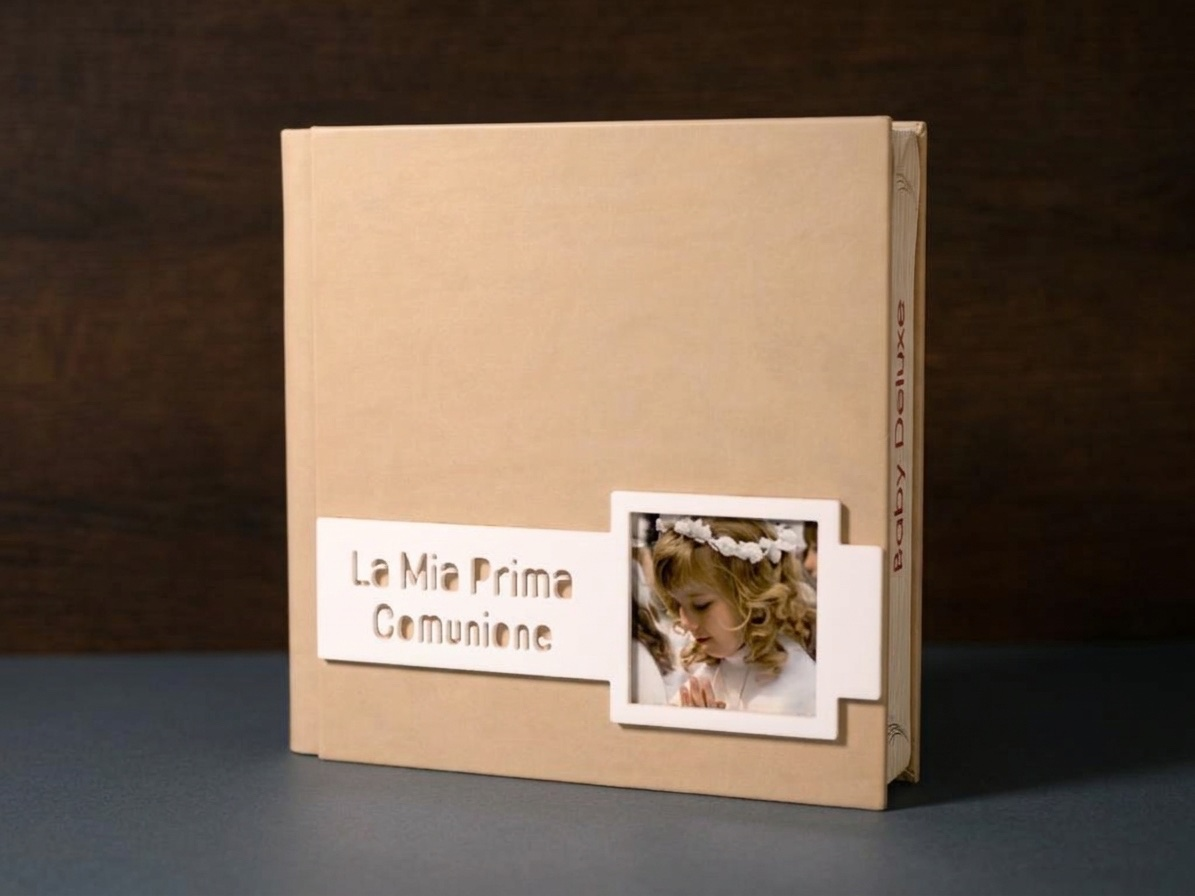
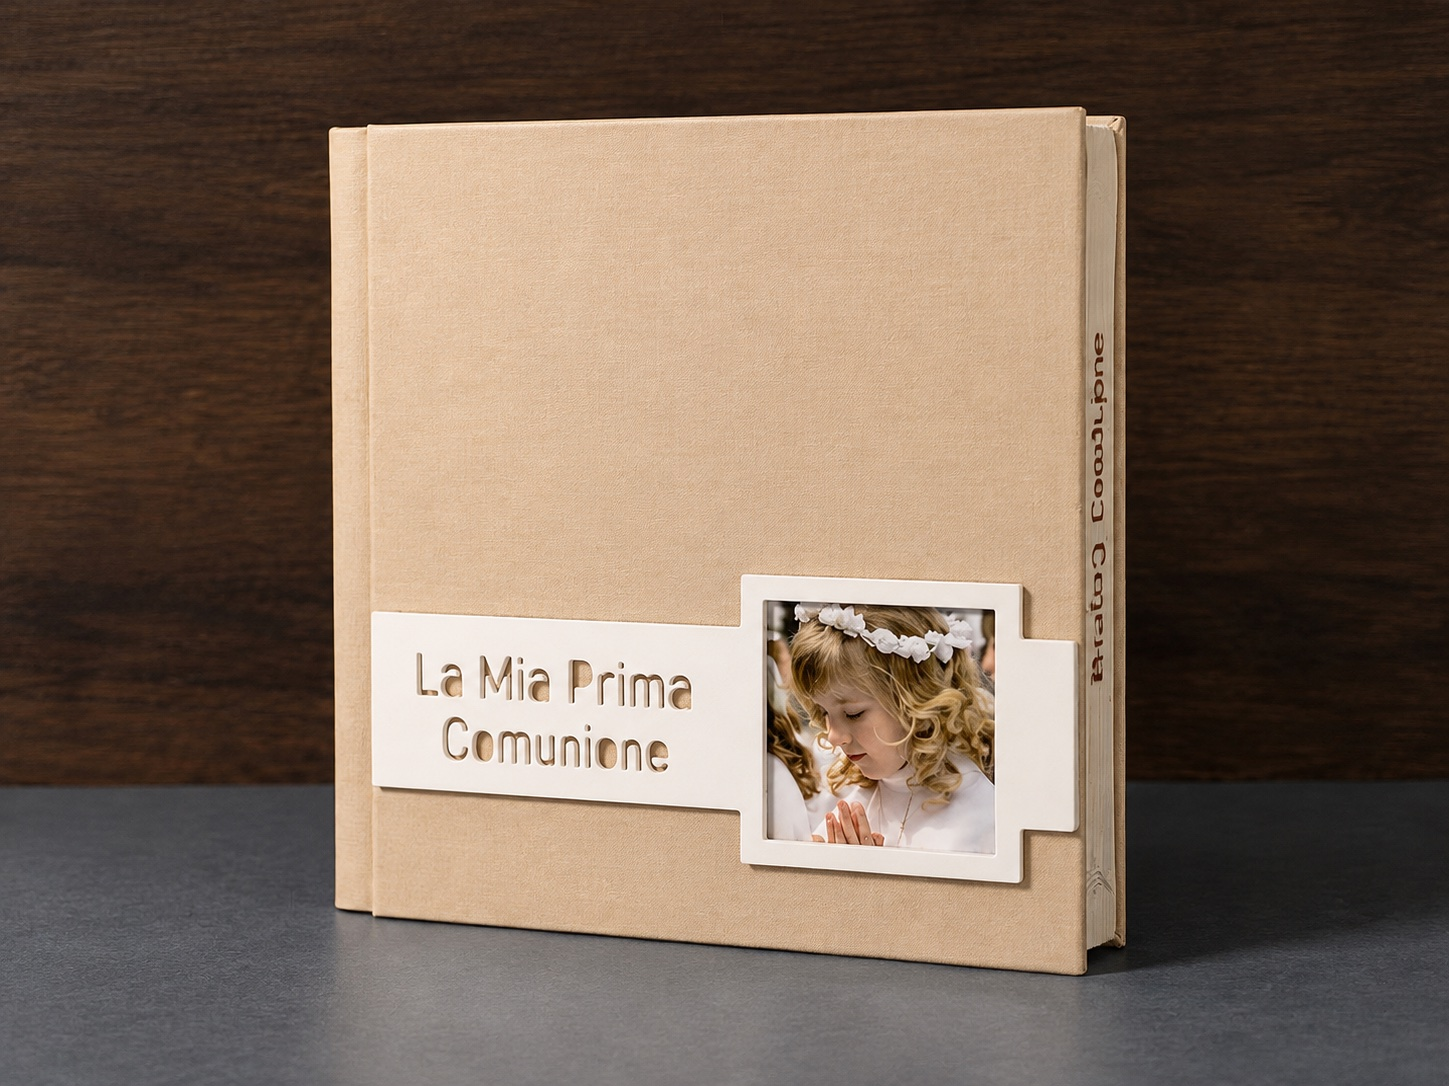
Home: nuove foto di apertura (album di nozze Elisa & Andrea, album sul leggio, album Orione sul tavolo) a tutto schermo, inquadrate e ferme al passaggio del mouse; nuova foto del modello Emma in Album comunione, menu e strisce delle collezioni; versioni 2.71-2.73 nel LEGGIMI

diff --git a/css/style.css b/css/style.css
@@ -472,26 +472,74 @@ nav a.on,
   filter: grayscale(1);
 }
 
-/* Modello Orione nello slideshow della home: la foto (4:3) sta a destra a tutta altezza,
-   con l'album intero; il bordo sinistro sfuma nei colori del muro e del ripiano. */
-.hero .hs-orione {
-  background: linear-gradient(180deg, #c4c0bd 0%, #bcb5b1 68%, #ab9d8f 72%, #b9a897 100%);
+/* Modello Orione sul tavolo nello slideshow della home: foto larga a tutto schermo,
+   inquadrata sull'album che sta a destra. */
+.hero .hero-slide.hs-orione img {
+  object-position: 70% 0%;
+  /* Album spostato un po' a destra e un po' in basso senza ingrandire la foto. */
+  transform: translate(5%, 4%);
+  transition: none;
 }
 
-.hero .hero-slide.hs-orione img {
-  top: auto;
-  bottom: 0;
-  left: auto;
-  right: 0;
-  width: auto;
-  max-width: none;
-  height: 86%;
-  aspect-ratio: 4 / 3;
-  object-fit: cover;
-  -webkit-mask-image: linear-gradient(90deg, transparent 0, #000 22%), linear-gradient(180deg, transparent 0, #000 14%);
-  -webkit-mask-composite: source-in;
-  mask-image: linear-gradient(90deg, transparent 0, #000 22%), linear-gradient(180deg, transparent 0, #000 14%);
-  mask-composite: intersect;
+/* Al passaggio del mouse la foto resta ferma (nessun effetto). */
+.hero .ph.no-zoom:hover .hero-slide.hs-orione img {
+  transform: translate(5%, 4%);
+}
+
+.hero .hs-orione {
+  overflow: hidden;
+  /* colore del muro nell'angolo in alto a sinistra della foto */
+  background: #b3aa9c;
+}
+
+/* I vuoti che restano a sinistra e in alto sono riempiti dalla stessa foto specchiata:
+   i bordi combaciano. */
+.hero .hs-orione::before,
+.hero .hs-orione::after {
+  content: '';
+  position: absolute;
+  inset: 0;
+  background: url(../images/index/album-orione-tavolo.jpg) 70% 0% / cover no-repeat;
+}
+
+.hero .hs-orione::before {
+  transform: translate(-94.9%, 4%) scaleX(-1);
+}
+
+.hero .hs-orione::after {
+  transform: translate(5%, -95.8%) scaleY(-1);
+}
+
+/* Album sul leggio nello slideshow della home: foto orizzontale a tutto schermo,
+   inquadrata sull'album che sta a destra. */
+.hero .hero-slide.hs-leggio img {
+  /* Inquadratura un po' più in alto nella foto: l'album appare leggermente più in basso. */
+  object-position: 75% 25%;
+}
+
+/* Album di nozze Elisa & Andrea nello slideshow della home: foto larga a tutto schermo,
+   inquadrata sull'album che sta a destra. */
+.hero .hero-slide.hs-nozze img {
+  object-position: 75% 50%;
+  /* Album spostato un po' a destra senza ingrandire la foto, come per Orione. */
+  transform: translateX(5%);
+  transition: none;
+}
+
+.hero .ph.no-zoom:hover .hero-slide.hs-nozze img {
+  transform: translateX(5%);
+}
+
+.hero .hs-nozze {
+  overflow: hidden;
+}
+
+.hero .hs-nozze::before {
+  content: '';
+  position: absolute;
+  inset: 0;
+  background: url(../images/index/album-nozze-elisa-andrea.jpg) 75% 50% / cover no-repeat;
+  transform: translateX(-95%) scaleX(-1);
 }
 
 .hero-controls {
@@ -3556,27 +3604,35 @@ img[src*="fotografo-videocamera"] {
     transform: none;
   }
 
-  /* Su telefono la foto Orione sta in alto, con l'album quasi intero e la coppia
-     sotto il pontile ben visibile; in basso sfuma nel colore del ripiano. */
+  /* Su telefono la foto Orione resta inquadrata sull'album. */
   .hero .hero-slide.hs-orione img {
-    top: 68px;
-    left: 0;
-    width: 100%;
-    height: 48%;
-    aspect-ratio: auto;
-    object-fit: cover;
-    object-position: 50% 55%;
-    -webkit-mask-image: linear-gradient(180deg, #000 80%, transparent 100%);
-    mask-image: linear-gradient(180deg, #000 80%, transparent 100%);
+    object-position: 63% 50%;
+    transform: none;
   }
 
-  .hero .hs-orione {
-    background: #b9ab9d;
+  .hero .ph.no-zoom:hover .hero-slide.hs-orione img {
+    transform: none;
   }
 
-  /* Prima foto (album aperto): inquadrata sulla coppia che salta */
-  .hero .hero-slide:first-child img {
-    object-position: 76% 50%;
+  .hero .hs-orione::before,
+  .hero .hs-orione::after {
+    display: none;
+  }
+
+  /* Su telefono l'album di nozze è inquadrato sugli sposi. */
+  .hero .hero-slide.hs-nozze img,
+  .hero .ph.no-zoom:hover .hero-slide.hs-nozze img {
+    object-position: 88% 50%;
+    transform: none;
+  }
+
+  .hero .hs-nozze::before {
+    display: none;
+  }
+
+  /* Su telefono l'album sul leggio resta al centro dell'inquadratura. */
+  .hero .hero-slide.hs-leggio img {
+    object-position: 88% 50%;
   }
 
   .hero-controls {
@@ -3887,7 +3943,7 @@ img[src*="fotografo-videocamera"] {
 }
 
 .strip img[src*="album-comunione-emma"] {
-  object-position: 58% 50%;
+  object-position: 50% 50%;
 }
 
 /* Con il mouse: foto in bianco e nero che si colorano al passaggio

diff --git a/index.html b/index.html
@@ -18,7 +18,7 @@
     <link rel="preconnect" href="https://fonts.gstatic.com" crossorigin>
     <link href="https://fonts.googleapis.com/css2?family=Manrope:wght@400;500;600;700;800&amp;family=Jost:wght@500&amp;display=swap"
         rel="stylesheet">
-    <link rel="stylesheet" href="css/style.css?v=159">
+    <link rel="stylesheet" href="css/style.css?v=161">
     <link rel="icon" type="image/svg+xml" href="images/comune/logo-olimp.svg">
     <script>document.documentElement.classList.add("js")</script>
     <script type="application/ld+json">
@@ -108,12 +108,12 @@
             </div>
             <figure class="ph no-zoom hero-slideshow" aria-label="Album e fotolibri">
                 <div class="hero-slides">
-                    <div class="hero-slide is-active"><img src="images/index/tradizionale.jpg"
-                            alt="Montaggio delle fotografie in un album tradizionale" fetchpriority="high"></div>
-                    <div class="hero-slide" aria-hidden="true"><img src="images/index/album1.jpg"
-                            alt="Album fotografico aperto su doppia pagina" loading="eager"></div>
-                    <div class="hero-slide hs-orione" aria-hidden="true"><img src="images/index/modello-orione.jpg"
-                            alt="Modello Orione della Linea Trendy, copertina nera con fascia fotografica panoramica in bianco e nero" loading="eager"></div>
+                    <div class="hero-slide hs-nozze is-active"><img src="images/index/album-nozze-elisa-andrea.jpg"
+                            alt="Album di nozze con copertina bianca, nomi Elisa &amp; Andrea e foto degli sposi dietro una curva argentata, su un piedistallo specchiato" fetchpriority="high"></div>
+                    <div class="hero-slide hs-leggio" aria-hidden="true"><img src="images/index/album-leggio.jpg"
+                            alt="Album matrimoniale con copertina in camoscio grigio, monogramma inciso e foto degli sposi, sul leggio in legno con lastra in plexiglass" loading="eager"></div>
+                    <div class="hero-slide hs-orione" aria-hidden="true"><img src="images/index/album-orione-tavolo.jpg"
+                            alt="Album con copertina nera e fascia fotografica panoramica in bianco e nero, in piedi su un tavolo in legno" loading="eager"></div>
                 </div>
             </figure>
             <div class="hero-controls" aria-label="Controlli immagini"><button type="button" class="hero-dot"

diff --git a/album-bambini.html b/album-bambini.html
@@ -18,7 +18,7 @@
     <link rel="preconnect" href="https://fonts.gstatic.com" crossorigin>
     <link href="https://fonts.googleapis.com/css2?family=Manrope:wght@400;500;600;700;800&amp;family=Jost:wght@500&amp;display=swap"
         rel="stylesheet">
-    <link rel="stylesheet" href="css/style.css?v=159">
+    <link rel="stylesheet" href="css/style.css?v=161">
     <link rel="icon" type="image/svg+xml" href="images/comune/logo-olimp.svg">
     <script>document.documentElement.classList.add("js")</script>
   <script>if(!matchMedia('(prefers-reduced-motion: reduce)').matches){document.documentElement.classList.add('fx-pre');setTimeout(function(){document.documentElement.classList.remove('fx-pre')},2500)}</script>

diff --git a/album-comunione.html b/album-comunione.html
@@ -18,7 +18,7 @@
     <link rel="preconnect" href="https://fonts.gstatic.com" crossorigin>
     <link href="https://fonts.googleapis.com/css2?family=Manrope:wght@400;500;600;700;800&amp;family=Jost:wght@500&amp;display=swap"
         rel="stylesheet">
-    <link rel="stylesheet" href="css/style.css?v=159">
+    <link rel="stylesheet" href="css/style.css?v=161">
     <link rel="icon" type="image/svg+xml" href="images/comune/logo-olimp.svg">
     <script>document.documentElement.classList.add("js")</script>
   <script>if(!matchMedia('(prefers-reduced-motion: reduce)').matches){document.documentElement.classList.add('fx-pre');setTimeout(function(){document.documentElement.classList.remove('fx-pre')},2500)}</script>

diff --git a/album-eventi.html b/album-eventi.html
@@ -18,7 +18,7 @@
     <link rel="preconnect" href="https://fonts.gstatic.com" crossorigin>
     <link href="https://fonts.googleapis.com/css2?family=Manrope:wght@400;500;600;700;800&amp;family=Jost:wght@500&amp;display=swap"
         rel="stylesheet">
-    <link rel="stylesheet" href="css/style.css?v=159">
+    <link rel="stylesheet" href="css/style.css?v=161">
     <link rel="icon" type="image/svg+xml" href="images/comune/logo-olimp.svg">
     <script>document.documentElement.classList.add("js")</script>
   <script>if(!matchMedia('(prefers-reduced-motion: reduce)').matches){document.documentElement.classList.add('fx-pre');setTimeout(function(){document.documentElement.classList.remove('fx-pre')},2500)}</script>

diff --git a/album-tradizionale-professionale.html b/album-tradizionale-professionale.html
@@ -18,7 +18,7 @@
     <link rel="preconnect" href="https://fonts.gstatic.com" crossorigin>
     <link href="https://fonts.googleapis.com/css2?family=Manrope:wght@400;500;600;700;800&amp;family=Jost:wght@500&amp;display=swap"
         rel="stylesheet">
-    <link rel="stylesheet" href="css/style.css?v=159">
+    <link rel="stylesheet" href="css/style.css?v=161">
     <link rel="icon" type="image/svg+xml" href="images/comune/logo-olimp.svg">
     <script>document.documentElement.classList.add("js")</script>
   <script>if(!matchMedia('(prefers-reduced-motion: reduce)').matches){document.documentElement.classList.add('fx-pre');setTimeout(function(){document.documentElement.classList.remove('fx-pre')},2500)}</script>

diff --git a/area-download.html b/area-download.html
@@ -18,7 +18,7 @@
     <link rel="preconnect" href="https://fonts.gstatic.com" crossorigin>
     <link href="https://fonts.googleapis.com/css2?family=Manrope:wght@400;500;600;700;800&amp;family=Jost:wght@500&amp;display=swap"
         rel="stylesheet">
-    <link rel="stylesheet" href="css/style.css?v=159">
+    <link rel="stylesheet" href="css/style.css?v=161">
     <link rel="icon" type="image/svg+xml" href="images/comune/logo-olimp.svg">
     <script>document.documentElement.classList.add("js")</script>
   <script>if(!matchMedia('(prefers-reduced-motion: reduce)').matches){document.documentElement.classList.add('fx-pre');setTimeout(function(){document.documentElement.classList.remove('fx-pre')},2500)}</script>

diff --git a/collezioni.html b/collezioni.html
@@ -18,7 +18,7 @@
     <link rel="preconnect" href="https://fonts.gstatic.com" crossorigin>
     <link href="https://fonts.googleapis.com/css2?family=Manrope:wght@400;500;600;700;800&amp;family=Jost:wght@500&amp;display=swap"
         rel="stylesheet">
-    <link rel="stylesheet" href="css/style.css?v=159">
+    <link rel="stylesheet" href="css/style.css?v=161">
     <link rel="icon" type="image/svg+xml" href="images/comune/logo-olimp.svg">
     <script>document.documentElement.classList.add("js")</script>
   <script>if(!matchMedia('(prefers-reduced-motion: reduce)').matches){document.documentElement.classList.add('fx-pre');setTimeout(function(){document.documentElement.classList.remove('fx-pre')},2500)}</script>

diff --git a/custodie-per-album.html b/custodie-per-album.html
@@ -18,7 +18,7 @@
     <link rel="preconnect" href="https://fonts.gstatic.com" crossorigin>
     <link href="https://fonts.googleapis.com/css2?family=Manrope:wght@400;500;600;700;800&amp;family=Jost:wght@500&amp;display=swap"
         rel="stylesheet">
-    <link rel="stylesheet" href="css/style.css?v=159">
+    <link rel="stylesheet" href="css/style.css?v=161">
     <link rel="icon" type="image/svg+xml" href="images/comune/logo-olimp.svg">
     <script>document.documentElement.classList.add("js")</script>
   <script>if(!matchMedia('(prefers-reduced-motion: reduce)').matches){document.documentElement.classList.add('fx-pre');setTimeout(function(){document.documentElement.classList.remove('fx-pre')},2500)}</script>

diff --git a/fotolibro-professionale.html b/fotolibro-professionale.html
@@ -18,7 +18,7 @@
     <link rel="preconnect" href="https://fonts.gstatic.com" crossorigin>
     <link href="https://fonts.googleapis.com/css2?family=Manrope:wght@400;500;600;700;800&amp;family=Jost:wght@500&amp;display=swap"
         rel="stylesheet">
-    <link rel="stylesheet" href="css/style.css?v=159">
+    <link rel="stylesheet" href="css/style.css?v=161">
     <link rel="icon" type="image/svg+xml" href="images/comune/logo-olimp.svg">
     <script>document.documentElement.classList.add("js")</script>
   <script>if(!matchMedia('(prefers-reduced-motion: reduce)').matches){document.documentElement.classList.add('fx-pre');setTimeout(function(){document.documentElement.classList.remove('fx-pre')},2500)}</script>

diff --git a/grafica-stampa.html b/grafica-stampa.html
@@ -18,7 +18,7 @@
     <link rel="preconnect" href="https://fonts.gstatic.com" crossorigin>
     <link href="https://fonts.googleapis.com/css2?family=Manrope:wght@400;500;600;700;800&amp;family=Jost:wght@500&amp;display=swap"
         rel="stylesheet">
-    <link rel="stylesheet" href="css/style.css?v=159">
+    <link rel="stylesheet" href="css/style.css?v=161">
     <link rel="icon" type="image/svg+xml" href="images/comune/logo-olimp.svg">
     <script>document.documentElement.classList.add("js")</script>
   <script>if(!matchMedia('(prefers-reduced-motion: reduce)').matches){document.documentElement.classList.add('fx-pre');setTimeout(function(){document.documentElement.classList.remove('fx-pre')},2500)}</script>

diff --git a/privacy.html b/privacy.html
@@ -16,7 +16,7 @@
     <link rel="preconnect" href="https://fonts.gstatic.com" crossorigin>
     <link href="https://fonts.googleapis.com/css2?family=Manrope:wght@400;500;600;700;800&amp;family=Jost:wght@500&amp;display=swap"
         rel="stylesheet">
-    <link rel="stylesheet" href="css/style.css?v=159">
+    <link rel="stylesheet" href="css/style.css?v=161">
     <link rel="icon" type="image/svg+xml" href="images/comune/logo-olimp.svg">
     <script>document.documentElement.classList.add("js")</script>
   <script>if(!matchMedia('(prefers-reduced-motion: reduce)').matches){document.documentElement.classList.add('fx-pre');setTimeout(function(){document.documentElement.classList.remove('fx-pre')},2500)}</script>
